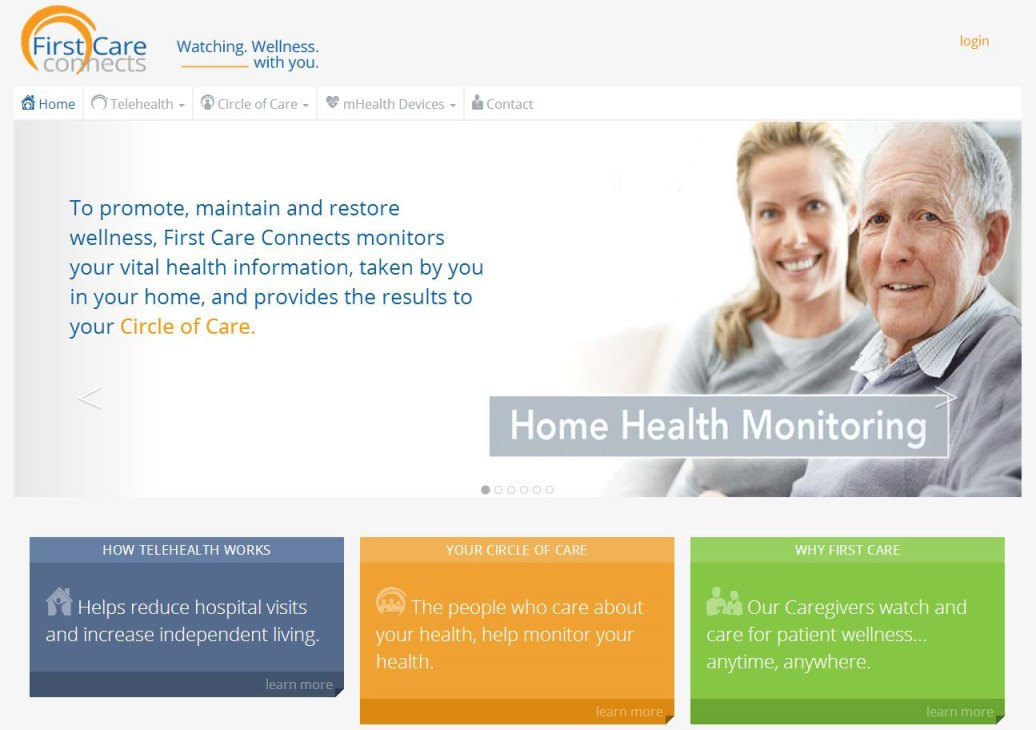
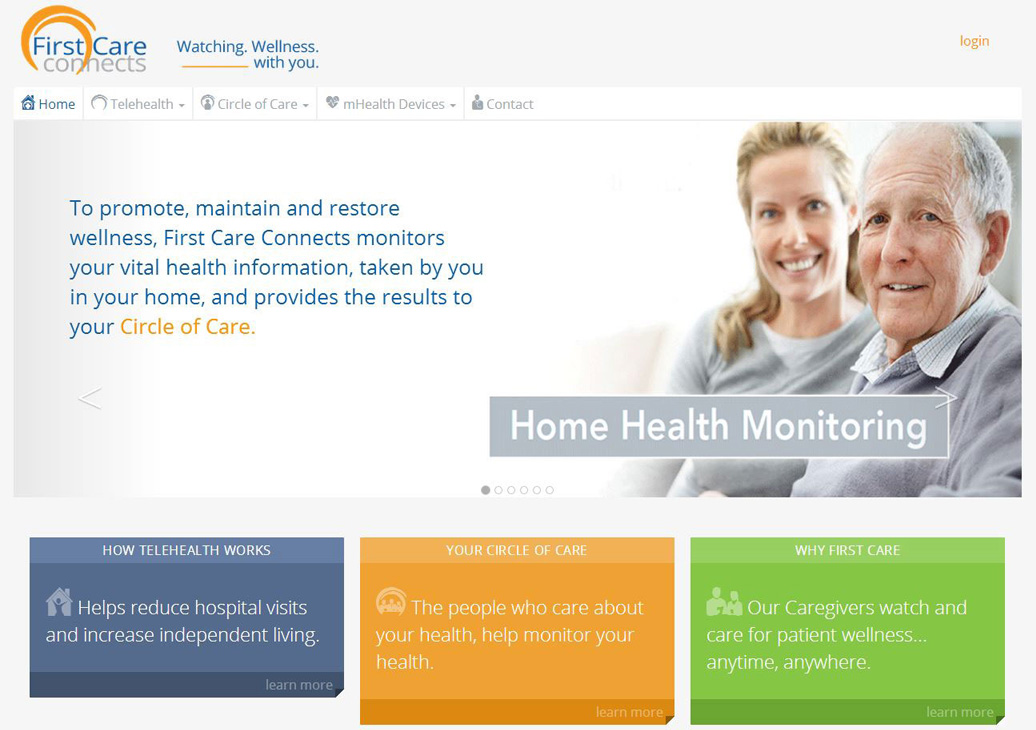
made 1x 1365 x 730

diff --git a/Web/css/main.css b/Web/css/main.css
@@ -350,25 +350,26 @@ margin: 0 0 7px 0;
             font-size: 30px;
             text-align: center;
             position: absolute;
-            top: 0;
+            top: 10px;
             left: 0;
-            width: 100%;
-            height: 274px;
+            width: 100%;         
             text-shadow: -1px -1px 0 rgba(0,0,0,.2);
         }
         #carousel img {
             margin-top: 20px;
             
+
+            
         }
-/* Pane for Retina*/
+/* Pane for Retina
 @media 
 (-webkit-min-device-pixel-ratio: 2), 
-(min-resolution: 192dpi) { 
-    /* Retina-specific stuff here */
+(min-resolution: 192dpi) { */
+    /* Retina-specific stuff here 
 }
-@media only screen and (min-width: 320px) {
+@media only screen and (min-width: 320px) {*/
 
-  /* Small screen, non-retina */
+  /* Small screen, non-retina 
 
 }
 
@@ -378,15 +379,15 @@ only screen and (   min-moz-device-pixel-ratio: 2)      and (min-width: 320px),
 only screen and (     -o-min-device-pixel-ratio: 2/1)    and (min-width: 320px),
 only screen and (        min-device-pixel-ratio: 2)      and (min-width: 320px),
 only screen and (                min-resolution: 192dpi) and (min-width: 320px),
-only screen and (                min-resolution: 2dppx)  and (min-width: 320px) { 
+only screen and (                min-resolution: 2dppx)  and (min-width: 320px) { */
 
-  /* Small screen, retina, stuff to override above media query */
+  /* Small screen, retina, stuff to override above media query 
 
 }
 
-@media only screen and (min-width: 700px) {
+@media only screen and (min-width: 700px) {*/
 
-  /* Medium screen, non-retina */
+  /* Medium screen, non-retina 
 
 }
 
@@ -396,15 +397,15 @@ only screen and (   min--moz-device-pixel-ratio: 2)      and (min-width: 700px),
 only screen and (     -o-min-device-pixel-ratio: 2/1)    and (min-width: 700px),
 only screen and (        min-device-pixel-ratio: 2)      and (min-width: 700px),
 only screen and (                min-resolution: 192dpi) and (min-width: 700px),
-only screen and (                min-resolution: 2dppx)  and (min-width: 700px) { 
+only screen and (                min-resolution: 2dppx)  and (min-width: 700px) { */
 
-  /* Medium screen, retina, stuff to override above media query */
+  /* Medium screen, retina, stuff to override above media query 
 
 }
 
-@media only screen and (min-width: 1300px) {
+@media only screen and (min-width: 1300px) {*/
 
-  /* Large screen, non-retina */
+  /* Large screen, non-retina 
 
 }
 
@@ -414,11 +415,11 @@ only screen and (   min--moz-device-pixel-ratio: 2)      and (min-width: 1300px)
 only screen and (     -o-min-device-pixel-ratio: 2/1)    and (min-width: 1300px),
 only screen and (        min-device-pixel-ratio: 2)      and (min-width: 1300px),
 only screen and (                min-resolution: 192dpi) and (min-width: 1300px),
-only screen and (                min-resolution: 2dppx)  and (min-width: 1300px) { 
+only screen and (                min-resolution: 2dppx)  and (min-width: 1300px) { */
 
-  /* Large screen, retina, stuff to override above media query */
+  /* Large screen, retina, stuff to override above media query 
 
-}
+}*/
 
 
 /*@media (max-width: 480px) {

diff --git a/Web/index.html b/Web/index.html
@@ -327,16 +327,16 @@ Page navigation - Use to Scroll the page from section to section
     
         <div class="row">
             <div class="span12">
-                <div id="carousel">
+                <div id="carousel" style="height:730px">
                     <ul>
                         <li class="pane1">
                             <h3>responsive, secure, real-time data health readings </h3>
                             
-                             <h2><img src="images/web-work/firstcare.jpg" height="700" /></h2> 
+                             <h2><img src="images/web-work/firstcare.jpg"  /><< swipe >></h2> 
                         </li>
                         <li class="pane2">
                              <h3>dashboard of home health monitoring </h3>
-                              <h2>  <img src="images/web-work/firstcare.jpg" /></h2>
+                              <h2>  <img src="images/web-work/firstcare@2x.jpg" /><< swipe >> </h2>
                         </li>
                     </ul>
                 </div>
